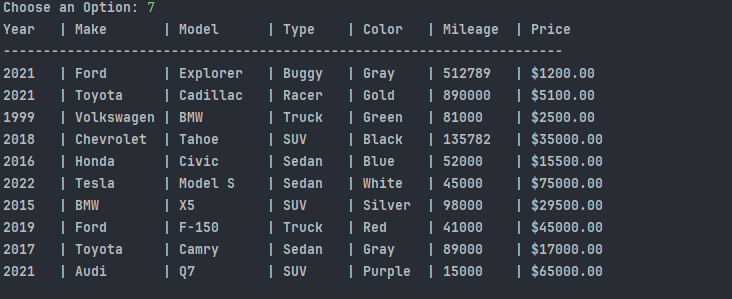
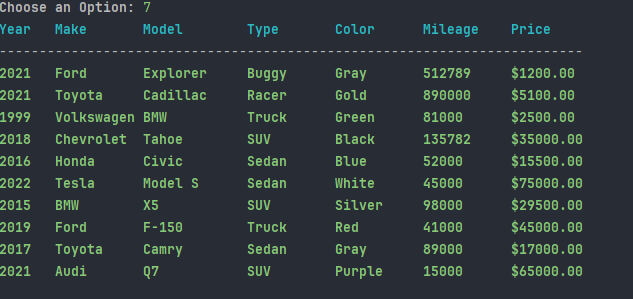
added color to vehicle list printout

diff --git a/ObjOriCarDealershipPt2/src/main/java/com/pluralsight/UserInterface.java b/ObjOriCarDealershipPt2/src/main/java/com/pluralsight/UserInterface.java
@@ -281,14 +281,18 @@ public class UserInterface {
             return;
         }
 
-        // Print header
-        System.out.printf("%-6s | %-10s | %-10s | %-7s | %-7s | %-8s | %-10s%n",
+        // Table Header
+        System.out.printf(ColorCodes.BOLD + ColorCodes.BRIGHT_CYAN +
+                        "%-6s %-10s %-12s %-10s %-10s %-10s %-10s%n" + ColorCodes.RESET,
                 "Year", "Make", "Model", "Type", "Color", "Mileage", "Price");
-        System.out.println("----------------------------------------------------------------------");
 
-        // Print each vehicle
+        // Divider
+        System.out.println(ColorCodes.BRIGHT_WHITE + "-------------------------------------------------------------------------" + ColorCodes.RESET);
+
+        // Table Rows
         for (Vehicle v : vehicles) {
-            System.out.printf("%-6d | %-10s | %-10s | %-7s | %-7s | %-8d | $%-10.2f%n",
+            System.out.printf(ColorCodes.BRIGHT_GREEN + ColorCodes.BOLD +
+                            "%-6d %-10s %-12s %-10s %-10s %-10d $%-10.2f%n" + ColorCodes.RESET,
                     v.getYear(), v.getMake(), v.getModel(), v.getVehicleType(), v.getColor(), v.getOdometer(), v.getPrice());
         }
     }
